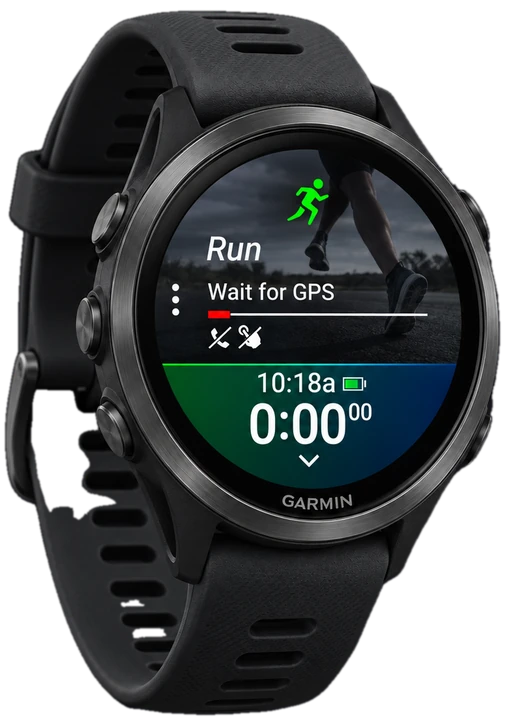
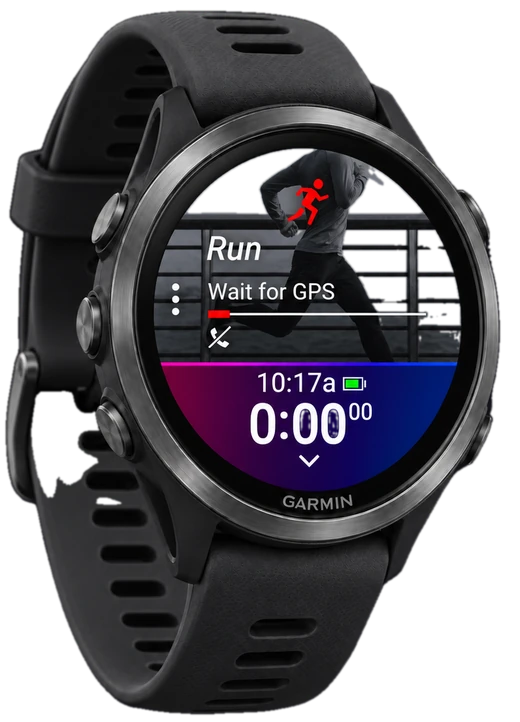
Apple Watch shown as photographed; red run screen for the Garmin
The Apple Watch keeps its own screen from PR's photo (no drawn overlay);
the Garmin run photo is the red-interface version.

Claude-Session: https://claude.ai/code/session_012nSa73TQJCXMLahdjqwpcK

diff --git a/src/components/DeviceArt.tsx b/src/components/DeviceArt.tsx
@@ -1,6 +1,6 @@
 // The athlete's wearable on the dashboard hero: a photo of the device they use (public/devices, cut out of its
 // background). The Garmin photo follows the sport of the day (run, bike or swim screen as the watch shows it);
-// the Fitbit band and the Apple Watch get the session drawn on their screens; the WHOOP strap has no screen.
+// the Apple Watch and the WHOOP strap show as photographed; the Fitbit band gets the session drawn on its screen.
 // Makers without their own photo get the Garmin-style round watch.
 export type Device = "garmin" | "fitbit" | "apple" | "whoop";
 export const deviceOf = (key: string | undefined): Device => (key === "fitbit" || key === "apple" || key === "whoop" ? key : "garmin");
@@ -16,7 +16,7 @@ export function DeviceArt({ device, face, sport, height = 168 }: { device: Devic
   return (
     <div className={`dev dev-${device}`} style={{ width, height }} aria-hidden="true">
       <img src={`/devices/${file}.webp`} alt="" width={W} height={H} draggable={false} />
-      {face && (device === "fitbit" || device === "apple") && (
+      {face && device === "fitbit" && (
         <svg viewBox={`0 0 ${W} ${H}`} className="dev-face">
           {device === "fitbit" && (
             <g transform="rotate(-3 386 331)">
@@ -25,16 +25,6 @@ export function DeviceArt({ device, face, sport, height = 168 }: { device: Devic
               <text x={386} y={318} textAnchor="middle" fontSize={92} fontWeight={600} fill="#fff" letterSpacing={-2}>{face.time.split(":")[0]}</text>
               <text x={386} y={410} textAnchor="middle" fontSize={92} fontWeight={600} fill="#fff" letterSpacing={-2}>{face.time.split(":")[1] ?? "00"}</text>
               <text x={386} y={470} textAnchor="middle" fontSize={22} fill="#fff" opacity={0.85}>{small.join("  ")}</text>
-            </g>
-          )}
-          {device === "apple" && (
-            <g transform="rotate(-2 177 317)">
-              <rect x={41} y={132} width={273} height={371} rx={66} fill="#050506" />
-              <text x={177} y={205} textAnchor="middle" fontSize={22} fill="#fff" letterSpacing={2}>{label}</text>
-              <text x={177} y={290} textAnchor="middle" fontSize={72} fontWeight={600} fill="#fff" letterSpacing={-2}>{face.time}</text>
-              <circle cx={177} cy={372} r={34} fill="none" stroke="#1C3F6E" strokeWidth={9} />
-              <circle cx={177} cy={372} r={34} fill="none" stroke="#3B82F6" strokeWidth={9} strokeLinecap="round" strokeDasharray={`${2 * Math.PI * 34 * 0.72} ${2 * Math.PI * 34}`} transform="rotate(-90 177 372)" />
-              <text x={177} y={452} textAnchor="middle" fontSize={22} fill="#fff" opacity={0.85}>{small.join("  ")}</text>
             </g>
           )}
         </svg>
